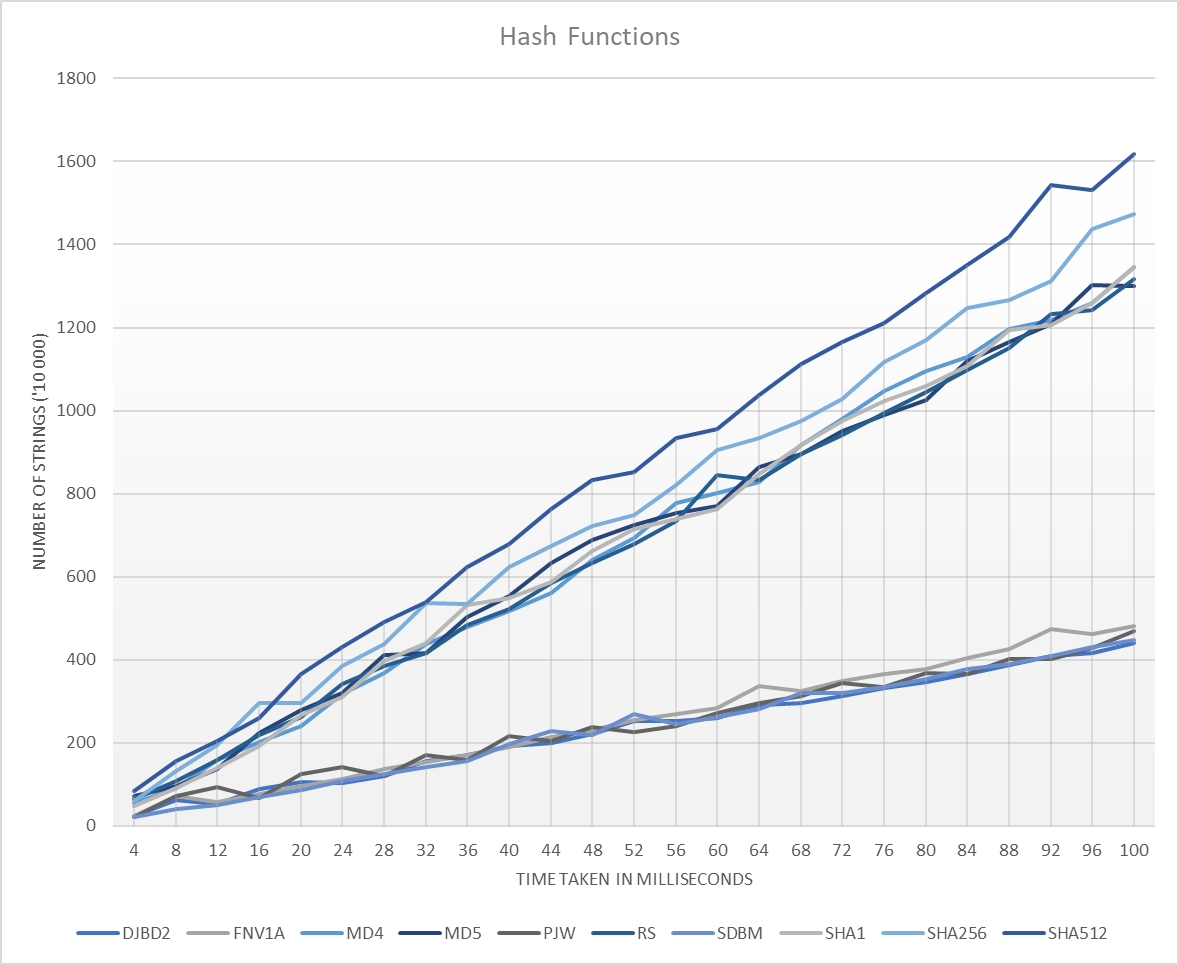
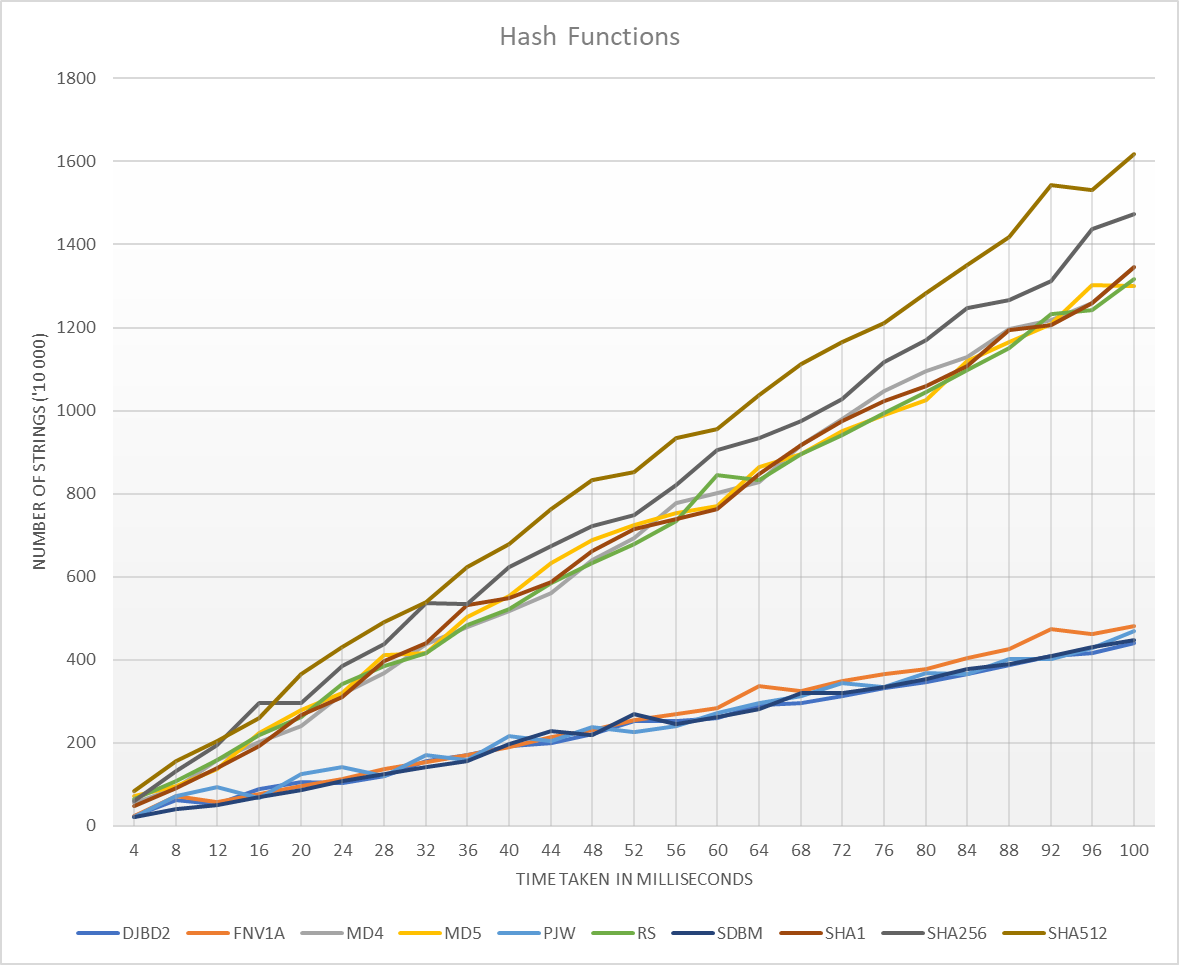
update

diff --git a/README.md b/README.md
@@ -1,1 +1,16 @@
-# string-hash-performance-testing
+# String Hash Performance Testing
+
+![](https://github.com/barend-erasmus/string-hash-performance-testing/raw/master/images/hash-functions-chart.png)
+
+| Number of Strings | Hash Function | Time Taken in Milliseconds |
+| ---------------- | ------------- | --------------------------- |
+| 1 000 000        | DJBD2         | 440                         |
+| 1 000 000        | FNV1A         | 482                         |
+| 1 000 000        | MD4           | 1346                        |
+| 1 000 000        | MD5           | 1300                        |
+| 1 000 000        | PJW           | 469                         |
+| 1 000 000        | RS            | 1318                        |
+| 1 000 000        | SDBM          | 448                         |
+| 1 000 000        | SHA1          | 1345                        |
+| 1 000 000        | SHA256        | 1474                        |
+| 1 000 000        | SHA512        | 1618                        |
